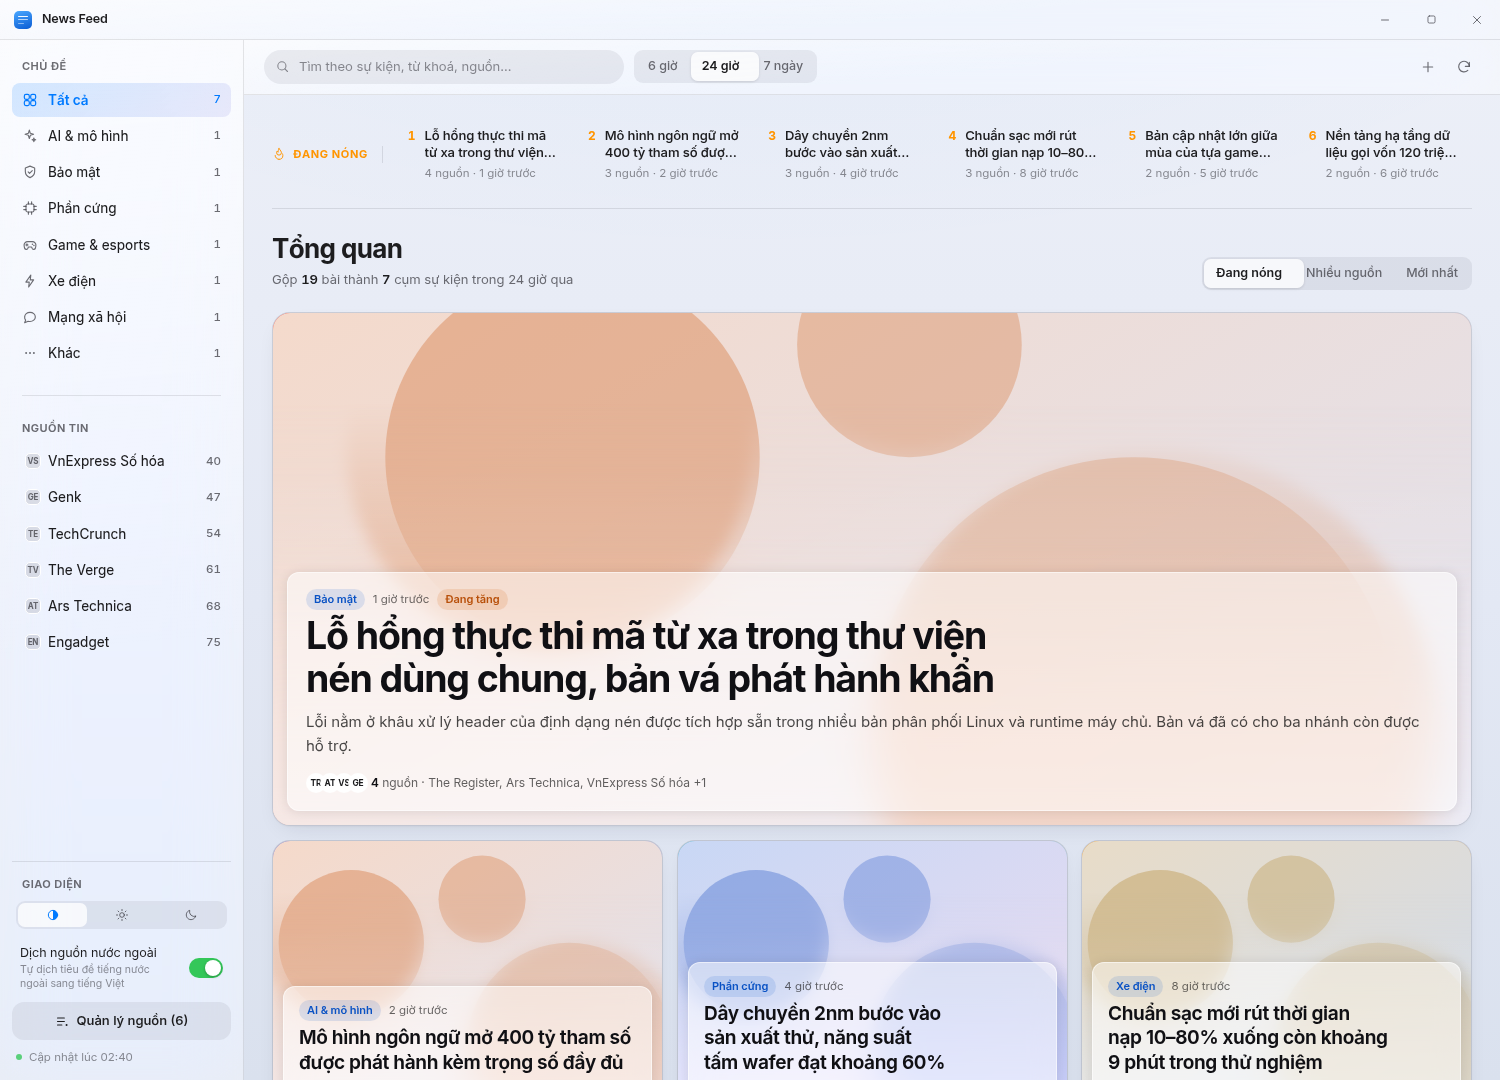
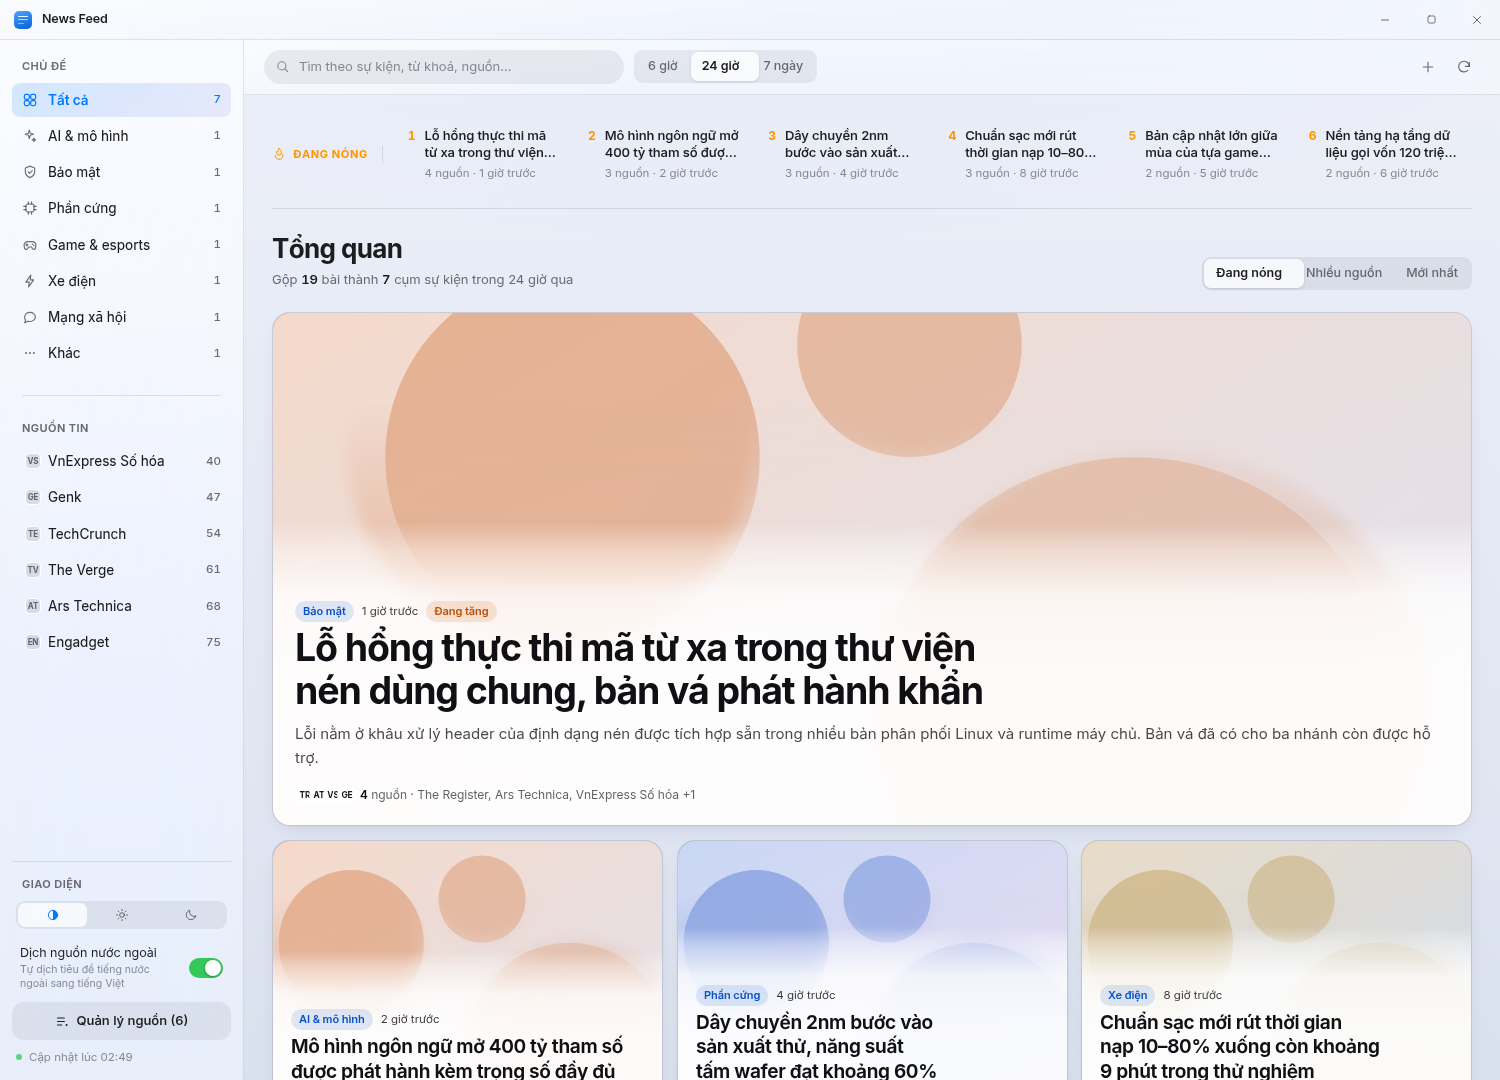
Tấm kính là dải chuyển sắc, không phải khối chữ nhật có viền (v0.12.4)
Hiểu nhầm ở bản trước: tôi đem gradient áp vào độ nhoè của ảnh nền, trong khi
ý là chính tấm chứa chữ phải chuyển sắc.

Tấm kính giờ đục nhất ở đáy rồi nhạt dần lên trên cho tới trong suốt, bỏ viền
và bỏ bóng đổ, bỏ cả khoảng lề nên nó chạy hết bề ngang thẻ. Nhờ vậy nó tan
vào tấm ảnh thay vì nằm đè lên như một thẻ riêng. Đệm trên dày để chỗ nhạt
nhất của dải rơi vào khoảng trống chứ không phải vào dòng chữ đầu tiên.

Lớp phủ ::after cũ thành thừa và bị bỏ: dải chuyển sắc của chính tấm kính đã
làm đúng việc đó, giữ lại chỉ tổ làm ảnh trắng thêm một lớp nữa. Bỏ đi còn
nhanh hơn — khung hình trung vị 17,9ms so với 19,2ms.

Cách đo tương phản cũng phải đổi theo. Lấy trung bình cả tấm là sai khi nền
không đồng đều: đỉnh dải nhạt hơn hẳn phần còn lại nên số trung bình che mất
vấn đề. Đo lại sau từng dòng chữ trên ảnh đen tuyền thì lộ ra dòng thời gian
chỉ đạt 3,5:1 vì nó nằm đúng chỗ nhạt nhất, trong khi tiêu đề cùng thẻ đạt
9,3:1. Kéo dải đục thêm và làm đậm riêng dòng đó: thấp nhất 5,9:1, cao nhất
15,6:1, không dòng nào dưới ngưỡng 4,5:1.

Claude-Session: https://claude.ai/code/session_01MD966JSNomz1eEWirJxpnf

Changed region(s): [[0.184, 0.4889, 0.9813, 0.7639], [0.184, 0.8556, 0.9813, 1.0], [0.5827, 0.4889, 0.9507, 0.55]]

diff --git a/src/styles/app.css b/src/styles/app.css
@@ -511,37 +511,34 @@
   opacity: 0.6;
 }
 
-/* Lớp phủ sáng chuyển dần ở đáy thẻ.
-   Giữ nhẹ thôi: tấm kính vốn đã đủ đục để bảo đảm tương phản một mình, nên
-   lớp này chỉ còn việc làm mềm chỗ tiếp giáp. Đặt đậm như bản đầu thì nửa
-   dưới tấm ảnh bị trắng bệch, đúng cái ngược với ý ảnh phủ toàn thẻ. */
-.poster::after {
-  content: "";
-  position: absolute;
-  inset: 0;
-  pointer-events: none;
-  background: linear-gradient(to top, rgba(255, 255, 255, 0.34) 0%, rgba(255, 255, 255, 0.08) 46%, transparent 70%);
-}
-
 /* Tấm kính sáng, chữ tối. Giữ nguyên một chất liệu ở cả giao diện sáng lẫn
    tối: nền của nó là ảnh bài chứ không phải nền của ứng dụng, nên nó không
    có lý do gì để đổi theo chủ đề. */
+/* Tấm kính không phải một khối chữ nhật có viền, mà là một dải chuyển sắc:
+   đục nhất ở đáy rồi nhạt dần lên trên cho tới trong suốt. Nhờ vậy nó tan
+   vào tấm ảnh thay vì nằm đè lên như một thẻ riêng.
+   Đệm trên dày để phần nhạt nhất của dải rơi vào khoảng trống chứ không phải
+   vào dòng chữ đầu tiên. */
 .card-body {
   position: relative;
   z-index: 1;
-  margin: 10px;
-  padding: 13px 15px 14px;
-  border-radius: var(--r-md);
-  background: rgba(255, 255, 255, 0.58);
-  border: 1px solid rgba(255, 255, 255, 0.55);
-  box-shadow: 0 1px 12px rgba(0, 0, 0, 0.1);
+  margin: 0;
+  padding: 46px 18px 16px;
   color: #16161a;
+  background: linear-gradient(
+    to top,
+    rgba(255, 255, 255, 0.94) 0%,
+    rgba(255, 255, 255, 0.92) 52%,
+    rgba(255, 255, 255, 0.84) 76%,
+    rgba(255, 255, 255, 0.42) 91%,
+    rgba(255, 255, 255, 0) 100%
+  );
 }
 
-/* Tin hero và tin đặc tả để tấm trong hơn một chút: khổ lớn nên nhìn rõ phần
-   ảnh nhoè phía sau hơn, và chữ ở đó cũng lớn hơn. */
-.hero-card .card-body,
-.feature-card .card-body { background: rgba(255, 255, 255, 0.54); }
+/* Thẻ càng cao thì chỗ chuyển sắc càng có nhiều không gian để trải ra, nên
+   đệm trên dày hơn. */
+.hero-card .card-body { padding: 78px 22px 20px; }
+.feature-card .card-body { padding: 58px 18px 16px; }
 
 /* Mọi màu chữ bên trong tấm kính đều phải tự khai lại: token của ứng dụng
    được tính cho nền sáng hoặc nền tối của app, không phải cho nền ảnh. */
@@ -550,7 +547,9 @@
 .card-body .feature-title { color: #101014; }
 .card-body .c-summary,
 .card-body .hero-summary { color: rgba(0, 0, 0, 0.72); }
-.card-body .stamp { color: rgba(0, 0, 0, 0.6); }
+/* Đậm hơn các chữ phụ khác: dòng này nằm ở đỉnh dải chuyển sắc, chỗ nền
+   nhạt nhất. Đo trên ảnh đen tuyền, để 0,6 thì chỉ đạt 3,5:1. */
+.card-body .stamp { color: rgba(0, 0, 0, 0.78); }
 .card-body .source-line { color: rgba(0, 0, 0, 0.62); }
 .card-body .source-line b { color: #101014; }
 .card-body .pill { background: rgba(0, 82, 204, 0.12); color: #0a52c4; }
@@ -586,7 +585,6 @@
   animation: card-in 460ms var(--ease-out) both;
 }
 .hero-card .card-pic .glyph svg { width: 60px; height: 60px; }
-.hero-card .card-body { margin: 14px; padding: 16px 18px 17px; }
 
 .feature-card.poster {
   aspect-ratio: 4 / 3;

diff --git a/README.md b/README.md
@@ -195,9 +195,16 @@ nền của nó là ảnh bài chứ không phải nền của ứng dụng, nê
 gì để đổi theo chủ đề. Trường hợp xấu nhất vì thế là ảnh đen tuyền; đo ra
 được 10,0–11,8:1, trên ngưỡng dễ đọc 4,5:1 khá xa.
 
-Lớp phủ sáng chuyển dần ở đáy thẻ chỉ để làm mềm chỗ tiếp giáp, giữ nhẹ thôi:
-tấm kính vốn đã đủ đục để một mình bảo đảm tương phản, mà đặt lớp phủ đậm thì
-nửa dưới tấm ảnh bị trắng bệch — đúng cái ngược với ý ảnh phủ toàn thẻ.
+Bản thân tấm kính là một dải chuyển sắc chứ không phải khối chữ nhật có viền:
+đục nhất ở đáy rồi nhạt dần lên trên cho tới trong suốt, nên nó tan vào tấm
+ảnh thay vì nằm đè lên như một thẻ riêng. Phần đệm trên dày để chỗ nhạt nhất
+của dải rơi vào khoảng trống chứ không phải vào dòng chữ đầu tiên.
+
+Đo tương phản ở đây phải đo sau từng dòng chữ, không lấy trung bình cả tấm:
+đỉnh dải nhạt hơn hẳn phần còn lại nên số trung bình che mất vấn đề. Đo kiểu
+đó trên ảnh đen tuyền thì thấy dòng thời gian chỉ đạt 3,5:1 vì nó nằm đúng
+chỗ nhạt nhất, trong khi tiêu đề đạt 9:1. Sau khi kéo dải đục thêm và làm
+đậm riêng dòng đó: thấp nhất 5,9:1, cao nhất 15,6:1.
 
 **Kính mờ không dùng backdrop-filter.** Thay vào đó là một bản sao của chính
 tấm ảnh, đã làm mờ sẵn và che mặt nạ để chỉ hiện ở dải đáy nơi tấm kính nằm
